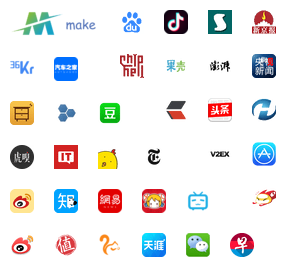
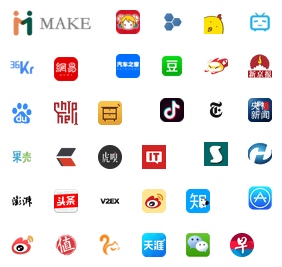
201908300521

diff --git a/css/main.css b/css/main.css
@@ -169,141 +169,141 @@ body {
 
 .bg-36kr {
     width: 24px; height: 24px;
-    background: url('img/css.png?20190822') -10px -57px;
-}
-.bg-autohome {
-    width: 24px; height: 24px;
-    background: url('img/css.png?20190822') -54px -57px;
-}
-.bg-baidu {
-    width: 24px; height: 24px;
-    background: url('img/css.png?20190822') -120px -10px;
-}
-.bg-chiphell {
-    width: 24px; height: 24px;
-    background: url('img/css.png?20190822') -120px -54px;
-}
-.bg-chouti {
-    width: 24px; height: 24px;
-    background: url('img/css.png?20190822') -10px -101px;
-}
-.bg-cnbeta {
-    width: 24px; height: 24px;
-    background: url('img/css.png?20190822') -54px -101px;
-}
-.bg-douban {
-    width: 24px; height: 24px;
-    background: url('img/css.png?20190822') -98px -101px;
-}
-.bg-douyin {
-    width: 24px; height: 24px;
-    background: url('img/css.png?20190822') -164px -10px;
-}
-.bg-guokr {
-    width: 24px; height: 24px;
-    background: url('img/css.png?20190822') -164px -54px;
-}
-.bg-hacpai {
-    width: 24px; height: 24px;
-    background: url('img/css.png?20190822') -164px -98px;
-}
-.bg-huxiu {
-    width: 24px; height: 24px;
-    background: url('img/css.png?20190822') -10px -145px;
-}
-.bg-ithome {
-    width: 24px; height: 24px;
-    background: url('img/css.png?20190822') -54px -145px;
-}
-.bg-jandan {
-    width: 24px; height: 24px;
-    background: url('img/css.png?20190822') -98px -145px;
-}
-.bg-nytimes {
-    width: 24px; height: 24px;
-    background: url('img/css.png?20190822') -142px -145px;
-}
-.bg-solidot {
-    width: 24px; height: 24px;
-    background: url('img/css.png?20190822') -208px -10px;
-}
-.bg-thepaper {
-    width: 24px; height: 24px;
-    background: url('img/css.png?20190822') -208px -54px;
-}
-.bg-toutiao {
-    width: 24px; height: 24px;
-    background: url('img/css.png?20190822') -208px -98px;
-}
-.bg-v2ex {
-    width: 24px; height: 24px;
-    background: url('img/css.png?20190822') -208px -142px;
-}
-.bg-weibo {
-    width: 24px; height: 24px;
-    background: url('img/css.png?20190822') -10px -189px;
-}
-.bg-zhihu {
-    width: 24px; height: 24px;
-    background: url('img/css.png?20190822') -54px -189px;
+    background: url('img/css.png?20190830') -10px -57px;
 }
 .bg-163 {
     width: 24px; height: 24px;
-    background: url('img/css.png?20190822') -98px -189px;
+    background: url('img/css.png?20190830') -54px -57px;
 }
 .bg-acfun {
     width: 24px; height: 24px;
-    background: url('img/css.png?20190822') -142px -189px;
+    background: url('img/css.png?20190830') -116px -10px;
 }
-.bg-bilibili {
+.bg-autohome {
     width: 24px; height: 24px;
-    background: url('img/css.png?20190822') -186px -189px;
+    background: url('img/css.png?20190830') -116px -54px;
 }
-.bg-bjnews {
+.bg-baidu {
     width: 24px; height: 24px;
-    background: url('img/css.png?20190822') -252px -10px;
+    background: url('img/css.png?20190830') -10px -101px;
 }
-.bg-cctv {
+.bg-chiphell {
     width: 24px; height: 24px;
-    background: url('img/css.png?20190822') -252px -54px;
+    background: url('img/css.png?20190830') -54px -101px;
 }
-.bg-hostlog {
+.bg-chouti {
     width: 24px; height: 24px;
-    background: url('img/css.png?20190822') -252px -98px;
+    background: url('img/css.png?20190830') -98px -101px;
 }
-.bg-itunes {
+.bg-cnbeta {
     width: 24px; height: 24px;
-    background: url('img/css.png?20190822') -252px -142px;
+    background: url('img/css.png?20190830') -160px -10px;
+}
+.bg-douban {
+    width: 24px; height: 24px;
+    background: url('img/css.png?20190830') -160px -54px;
+}
+.bg-douyin {
+    width: 24px; height: 24px;
+    background: url('img/css.png?20190830') -160px -98px;
+}
+.bg-guokr {
+    width: 24px; height: 24px;
+    background: url('img/css.png?20190830') -10px -145px;
+}
+.bg-hacpai {
+    width: 24px; height: 24px;
+    background: url('img/css.png?20190830') -54px -145px;
+}
+.bg-huxiu {
+    width: 24px; height: 24px;
+    background: url('img/css.png?20190830') -98px -145px;
+}
+.bg-ithome {
+    width: 24px; height: 24px;
+    background: url('img/css.png?20190830') -142px -145px;
+}
+.bg-jandan {
+    width: 24px; height: 24px;
+    background: url('img/css.png?20190830') -204px -10px;
 }
 .bg-logo {
-    width: 90px; height: 27px;
-    background: url('img/css.png?20190822') -10px -10px;
+    width: 86px; height: 27px;
+    background: url('img/css.png?20190830') -10px -10px;
 }
 .bg-mop {
     width: 24px; height: 24px;
-    background: url('img/css.png?20190822') -252px -186px;
+    background: url('img/css.png?20190830') -204px -54px;
+}
+.bg-nytimes {
+    width: 24px; height: 24px;
+    background: url('img/css.png?20190830') -204px -98px;
+}
+.bg-solidot {
+    width: 24px; height: 24px;
+    background: url('img/css.png?20190830') -204px -142px;
+}
+.bg-thepaper {
+    width: 24px; height: 24px;
+    background: url('img/css.png?20190830') -10px -189px;
+}
+.bg-toutiao {
+    width: 24px; height: 24px;
+    background: url('img/css.png?20190830') -54px -189px;
+}
+.bg-v2ex {
+    width: 24px; height: 24px;
+    background: url('img/css.png?20190830') -98px -189px;
+}
+.bg-weibo {
+    width: 24px; height: 24px;
+    background: url('img/css.png?20190830') -142px -189px;
+}
+.bg-zhihu {
+    width: 24px; height: 24px;
+    background: url('img/css.png?20190830') -186px -189px;
+}
+.bg-bilibili {
+    width: 24px; height: 24px;
+    background: url('img/css.png?20190830') -248px -10px;
+}
+.bg-bjnews {
+    width: 24px; height: 24px;
+    background: url('img/css.png?20190830') -248px -54px;
+}
+.bg-cctv {
+    width: 24px; height: 24px;
+    background: url('img/css.png?20190830') -248px -98px;
+}
+.bg-hostlog {
+    width: 24px; height: 24px;
+    background: url('img/css.png?20190830') -248px -142px;
+}
+.bg-itunes {
+    width: 24px; height: 24px;
+    background: url('img/css.png?20190830') -248px -186px;
 }
 .bg-sina {
     width: 24px; height: 24px;
-    background: url('img/css.png?20190822') -10px -233px;
+    background: url('img/css.png?20190830') -10px -233px;
 }
 .bg-smzdm {
     width: 24px; height: 24px;
-    background: url('img/css.png?20190822') -54px -233px;
+    background: url('img/css.png?20190830') -54px -233px;
 }
 .bg-songshuhui {
     width: 24px; height: 24px;
-    background: url('img/css.png?20190822') -98px -233px;
+    background: url('img/css.png?20190830') -98px -233px;
 }
 .bg-tianya {
     width: 24px; height: 24px;
-    background: url('img/css.png?20190822') -142px -233px;
+    background: url('img/css.png?20190830') -142px -233px;
 }
 .bg-weixin {
     width: 24px; height: 24px;
-    background: url('img/css.png?20190822') -186px -233px;
+    background: url('img/css.png?20190830') -186px -233px;
 }
 .bg-zaobao {
     width: 24px; height: 24px;
-    background: url('img/css.png?20190822') -230px -233px;
+    background: url('img/css.png?20190830') -230px -233px;
 }
